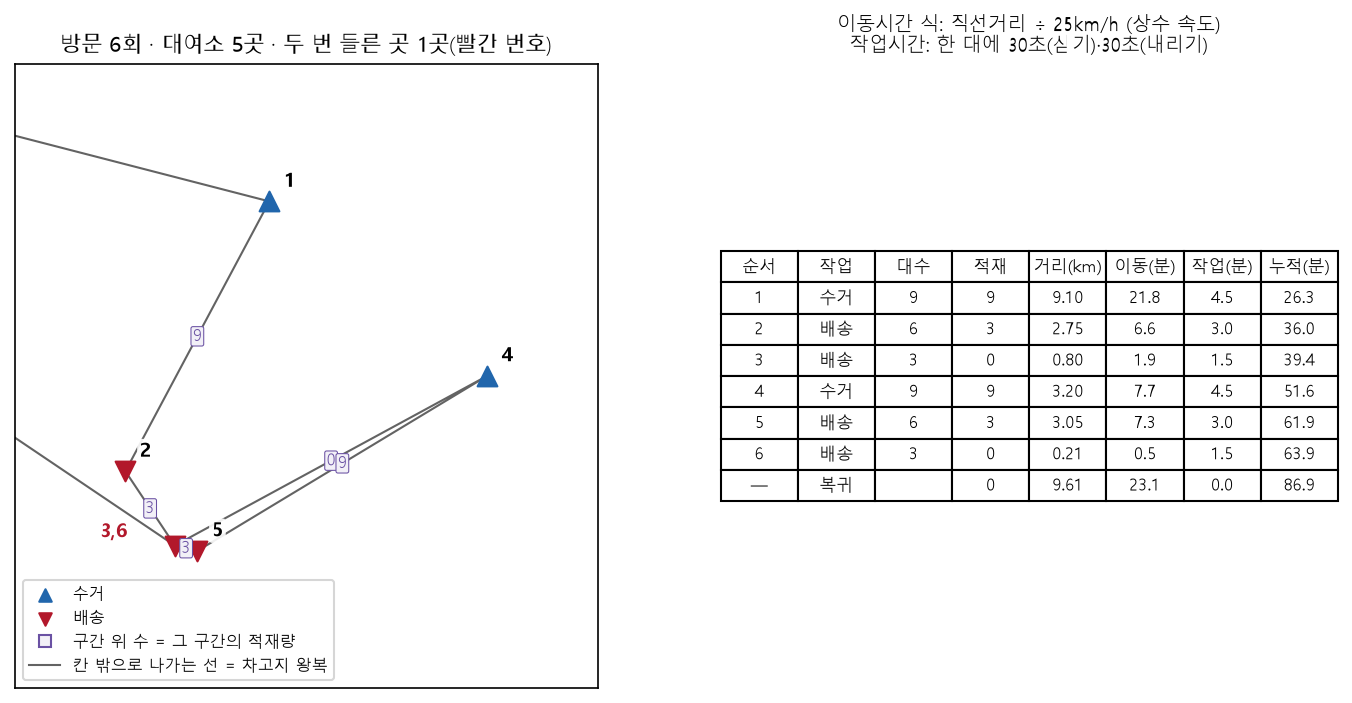
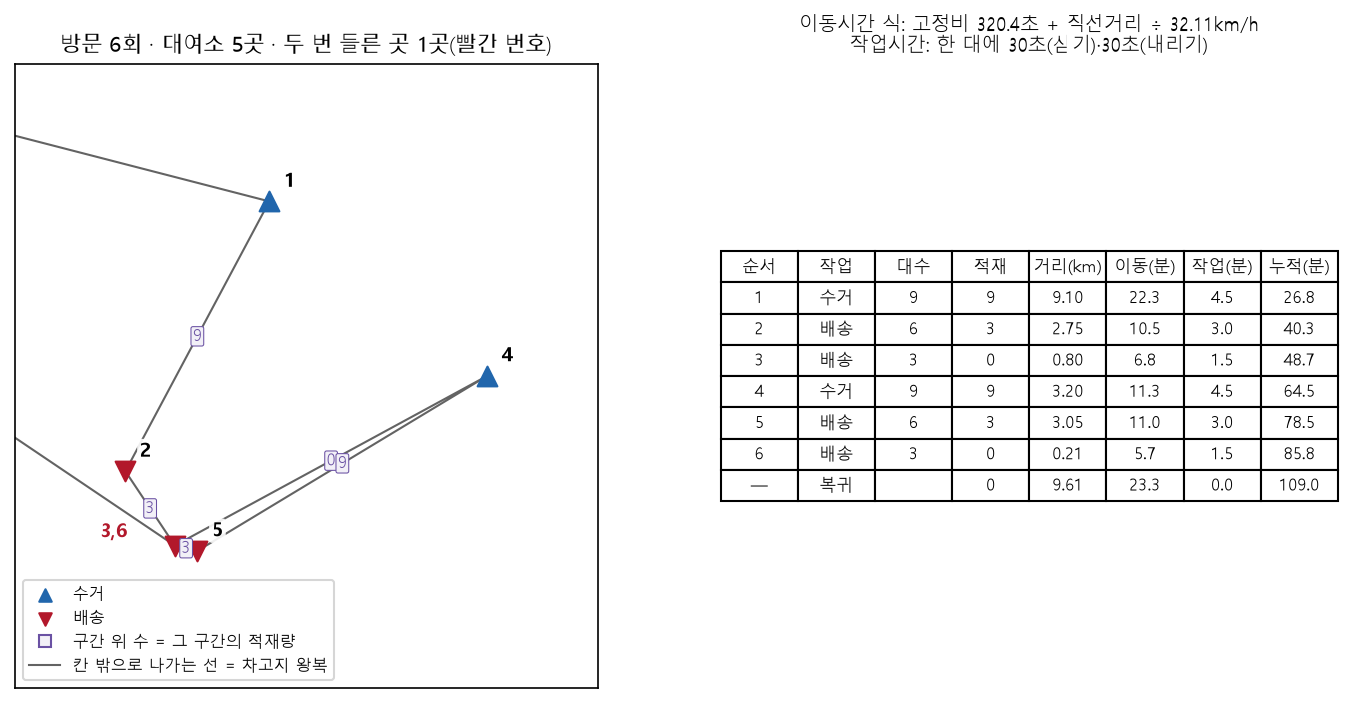
260920 4단계 재작성 ③ 원고를 새 값으로 고친다 - 표시 25곳 중 12곳은 값이 그대로라 지우고, 시간 수치는 켠 채 값으로 바꾼다 (1.26.252)
- 값이 그대로라 표시만 지운 12곳: 13장 이동거리 어림 · 25장 결원 시험 · 18·22장 z 격자(결품 기준이라 그대로)
- 3.5.1 군집 수 "12~16" → 식 14~17 · 조정 뒤 13~16(정본·25년 11월 평일·씨앗 42). K 추정이 c_tr 상수를 써서 식 (3.12)를 거치지 않는다는 것과, 그래서 같은 K인데 초과만 15→90건이 되는 것을 새 문단으로 적었다(5-G장)
- 4.5 회차당 차량 13~16대 · 3.4 상한 100의 초과를 "12대 중 11대"에서 "12.0대 중 11.6대"로(조건 추가)
- 7.4: 채택 계수로 재면 10~15시 포화가 다시 유의하지 않다(p=0.649) · 크기 1/64~1/4(33장)
- 7.5: 쪼개기는 25.7~50.3%를 못 옮기고 초과가 8군집 남는다(26장) · 연쇄는 42→21회·−25.6%, 예산을 지키는 연쇄는 0건. <표 7-2>에서 배율 1.24 추정 행을 없애고 계산값 한 행으로 합쳤다
- [그림 3-4]를 채택 계수로 다시 그리고 캡션을 고쳤다. 새로 잰 셋(연쇄 3개씩·26년 3월 연쇄·상한 100)은 같은 조건으로 직접 쟀다
- 남은 표시 13곳은 <표 3-3>(OR-Tools 갭)과 게이트 B 하나다

diff --git a/docs/연구/논문/7장_고찰.md b/docs/연구/논문/7장_고찰.md
@@ -164,7 +164,7 @@ $\gamma \ge 1000$에서는 거리 항이 균형 항을 압도하여 채택되는
 수를 바꾸어 전체 파이프라인을 돌렸는데, 결과가 나빠졌을 때 어림이 부정확해서인지 군집 수를 정하는
 방식이 잘못되어서인지 구분할 수 없었다. 세 번째 시도에서 순서를 바꾸어 어림값과 실제 이동거리를
 직접 대조하였고, 세 어림(면적 기반 근사, 최근접 이웃 순회, 최소 신장 트리)이 모두 현행보다 오차가
-크다는 것이 드러났다<!--A:EXP 13-->. 원인은 어림의 정밀도가 아니라 어림이 재는 대상이 실제 경로와
+크다는 것이 드러났다. 원인은 어림의 정밀도가 아니라 어림이 재는 대상이 실제 경로와
 다르다는 데 있었다. 순회 어림은 각 지점을 한 번씩 방문하는 최단 경로를 재지만, 실제 경로는 적재
 용량 때문에 같은 구역을 되돌아 다닌다.
 
@@ -182,8 +182,9 @@ $\gamma \ge 1000$에서는 거리 항이 균형 항을 압도하여 채택되는
 움직이면 그 비교는 무효이다. 아무것도 하지 않은 상태의 값이 파라미터에 따라 달라질 수는 없기
 때문이다. 이 진단은 제5장에서 그림으로 보인다.
 
-"시간 예산을 넘는 군집은 쪼개면 된다." 쪼개는 순간 일을 버렸다. 좌표로 군집을 나누면 예산은
-지켜지지만 수거와 배송의 짝이 깨져 자전거의 4.5~22.1%를 옮기지 못하였다<!--A:EXP 26-->. 더 나쁜
+"시간 예산을 넘는 군집은 쪼개면 된다." 쪼개는 순간 일을 버렸다. 좌표로 군집을 나누면 수거와 배송의
+짝이 깨져 자전거의 25.7~50.3%(세 회차 합계 35.7%)를 옮기지 못하였고, 그러고도 예산을 넘는 군집이
+22개에서 8개로 줄었을 뿐 사라지지 않았다. 더 나쁜
 것은 이 결함이 검사를 통과하였다는 점이다. 수거한 양만 세면 총합이 원래와 같아 이상이 없어
 보였고, 배송한 양까지 함께 세고서야 싣고서 내릴 곳이 없어 그대로 싣고 돌아온 차량이 드러났다.
 집행량은 수거한 양과 배송한 양 가운데 작은 쪽으로 세어야 한다.
@@ -191,24 +192,26 @@ $\gamma \ge 1000$에서는 거리 항이 균형 항을 압도하여 채택되는
 "시간 예산 120분이 여러 군집을 이어 도는 구조를 막는다." 전제부터 틀렸다. 본 연구는 오랫동안
 차량 한 대가 여러 군집을 이어 도는 구조를 예산 때문에 불가능하다고 적었다. 그러나 120분은 본
 연구가 세운 목표이지 운영기관의 제약이 아니었다(대전교통공사 타슈 관제센터 담당자, 유선 문의, 2025년 9월 6일). 제약이 아니라
-목표로 보고 다시 재니 불가능이 아니라 맞바꿈이었다. 두 군집씩 묶으면 필요한 차량 운행이 48회에서
-25회로, 이동거리가 23.2% 줄고, 대신 가장 긴 운행이 2.6시간에서 3.5시간으로 늘었다(<표 7-2>)<!--A:EXP 8·27-->.
-할 수 없다는 것과 이만큼을 치르면 할 수 있다는 것은 전혀 다른 결론이다.
+목표로 보고 다시 재니 불가능이 아니라 맞바꿈이었다. 두 군집씩 묶으면 필요한 차량 운행이 42회에서
+21회로, 이동거리가 25.6% 줄고, 대신 가장 긴 운행이 2.5시간에서 4.0시간으로 늘었다(<표 7-2>).
+할 수 없다는 것과 이만큼을 치르면 할 수 있다는 것은 전혀 다른 결론이다. 다만 예산을 지키면서 이을 수
+있는 짝은 한 건도 없었다. 예산을 지키라고 하면 연쇄는 현행과 소수점까지 같은 계획이 된다.
 
-<표 7-2> 여러 군집을 이어 도는 구조의 맞바꿈 (2025년 11월 평일, 세 회차 합계)<!--A:EXP 8·27-->
+<표 7-2> 여러 군집을 이어 도는 구조의 맞바꿈 (2025년 11월 평일, 세 회차 합계)
 
 | 구분 | 현행(차량 1대 = 군집 1개) | 2개씩 이어 돌기 | 3개씩 이어 돌기 |
 | --- | --- | --- | --- |
-| 필요한 차량 운행 수 | 48회 | 25회 | 17회 |
-| 총 이동거리 | 1,458.7km | 1,120.8km (−23.2%) | 953.6km (−34.6%) |
-| 차고지 왕복 비중 | 65.1% | 43.2% | 31.3% |
-| 가장 긴 운행 (계산값) | 122.8~127.8분 | 160.5~171.4분 | 204.1~249.0분 |
-| 가장 긴 운행 (실측 배율 반영 추정) | 약 159분 (2.6시간) | 약 213분 (3.5시간) | 약 309분 (5.2시간) |
+| 필요한 차량 운행 수 | 42회 | 21회 | 15회 |
+| 총 이동거리 | 1,227.9km | 913.5km (−25.6%) | 824.8km (−32.8%) |
+| 차고지 왕복 비중 | 66.5% | 43.8% | 34.4% |
+| 가장 긴 운행 | 136.6~151.9분 | 200.7~241.0분 | 275.9~311.7분 |
+| 시간 예산을 넘는 차량 | 12대 | 21대 | 14대 |
 
-주: 계산값은 직선거리를 시속 25km로 나눈 이동시간에 작업시간을 더한 것으로, 세 회차 각각의 최댓값 범위이다. 추정값은
-계산값의 최댓값에 실효 배율 약 1.24를 곱하였다. 도로 이동시간이 직선거리 기준의 1.32배라는 실측과 이동이 소요시간의
-70~80%를 차지한다는 점에서 얻은 배율이다. 군집을 묶는 규칙은 가까운 군집끼리 잇는 단순 규칙이므로 이득은 하한이다.
-2026년 3월에서도 두 군집씩 묶으면 차량 운행이 46회에서 23회로, 이동거리가 26.1% 줄었다.
+주: 이동시간은 식 (3.12)의 계수로 계산한 값이고, 여기에 작업시간을 더한 것이 운행 시간이다. 가장 긴 운행은 세 회차
+각각의 최댓값 범위이다. 재고 스냅샷은 2026년 8월 11일, 난수 씨앗은 42이다. 군집을 묶는 규칙은 가까운 군집끼리 잇는
+단순 규칙이므로 이득은 하한이다. 2026년 3월 통계에서도 두 군집씩 묶으면 차량 운행이 45회에서 23회로, 이동거리가
+26.8% 줄었다. 예산 120분을 지키라는 조건을 걸면 2025년 11월에는 이을 수 있는 짝이 하나도 없어 현행과 같아지고,
+2026년 3월에는 한 짝만 이어져 45회가 44회가 된다.
 
 "순수요 기준 충족률은 총 대여 기준보다 낙관적일 것이다." 분모를 바꾸자 순서가 뒤집혔다.
 순수요를 분모로 쓰던 충족률을 총 대여 건수로 다시 재니 분모가 2.3~5.4배가 되었다. 순수요 기준이
@@ -219,10 +222,13 @@ $\gamma \ge 1000$에서는 거리 항이 균형 항을 압도하여 채택되는
 
 "유의하지 않으므로 차이가 없다." 표본이 작았기 때문이었다. 5개월 반복 실험($n=15$)에서 제안
 방법과 그리디 배분의 포화 시간 차이는 유의하지 않았고($p=0.1876$), 한때 이를 두 방법의 포화가
-통계적으로 구분되지 않는다고 적었다. 12개월($n=36$)로 늘리자 세 시간대 모두 유의해졌다<!--A:EXP 15·33-->.
-유의하지 않았던 것은 차이가 없어서가 아니라 $n=15$로는 가를 수 없어서였다. 다만 뒤집힌 것은
-유의성이지 주장이 아니다. 차이의 크기가 50초~2.6분으로 결품 이득의 1/5~1/2이고, 한 시간대에서는
-부호마저 반대였다<!--A:EXP 15·33-->. 그래서 결론을 동등성 주장에서 효과 크기 주장으로 고쳐 썼다.
+통계적으로 구분되지 않는다고 적었다. 12개월($n=36$)로 늘리자 세 시간대 모두 유의해졌다.
+유의하지 않았던 것은 차이가 없어서가 아니라 $n=15$로는 가를 수 없어서였다. 그런데 같은 자료를 채택한
+이동시간 식으로 다시 재면 10~15시는 다시 유의하지 않았다($p=0.649$). 나머지 두 시간대는 유의한 채로
+남는다. 표본을 늘려 갈린 것이 재는 자를 바꾸자 한 칸에서 도로 안 갈린 것이다. 다만 뒤집힌 것은
+유의성이지 주장이 아니다. 포화 시간의 차이는 0.2~4.3분으로 같은 짝의 결품 이득(11.0~16.6분)의
+1/64~1/4이고, 옛 계수에서는 한 시간대의 부호가 반대였다. 그래서 결론을 동등성 주장에서 효과 크기
+주장으로 고쳐 썼다.
 앞의 사례들이 측정 방식이 틀린 경우였다면, 이 사례는 통계적 판단의 해석이 틀린 경우이다. 귀무가설을
 기각하지 못한 것을 같음의 근거로 쓰면 표본이 늘어나는 순간 자기 주장이 무너진다.
 

diff --git a/docs/연구/논문/4장_시스템설계.md b/docs/연구/논문/4장_시스템설계.md
@@ -118,7 +118,8 @@ API로 받은 실도로 경로를 그리며, 계획 계산 자체에는 식 (3.1
 운영기관에 문의한 결과 재배치 차량은 21대이며 한 번에 모두 투입하지 않고 조를 나누어 운용한다
 (대전교통공사 타슈 관제센터 담당자, 유선 문의, 2025년 9월 6일). 시스템은 이 운용 방식 위에 본 연구의 회차 구조를 얹기 위해
 차량 배정 계층을 따로 둔다. 회차당 투입 대수는 고정값이 아니라 식 (3.7)의 추정 작업량이 정하며,
-실데이터에서 12~16대였다<!--A:EXP 5-G-->. 따라서 보유 21대 안에서 교대 여유가 있다.
+정본 스냅샷의 세 회차에서 13~16대였다(식의 추정은 14~17대이고, 수급 균형 조정을 거쳐 13~16대가 되었다.
+2025년 11월 평일 통계, 난수 씨앗 42). 따라서 보유 21대 안에서 교대 여유가 있다.
 
 배정은 두 단계 규칙으로 이루어진다. 먼저 누적 작업시간이 적은 차량부터 그 회차에 필요한
 대수만큼 뽑고, 뽑힌 차량 가운데 누적이 적은 차량일수록 작업량이 무거운 군집을 맡긴다. 별도의
@@ -127,9 +128,9 @@ API로 받은 실도로 경로를 그리며, 계획 계산 자체에는 식 (3.1
 
 이 규칙을 결원 상황에서 시험하였다. 결원을 0, 1, 3, 5, 6, 7, 9대로 늘려 12회차를 연속 실행한
 결과, 가용 차량 16대(결원 5대)까지는 모든 회차의 배정이 성립하였고, 15대부터는 필요 대수가
-16인 회차에서 배정이 실패하였다<!--A:EXP 25-->. 다만 결원이 끝난 뒤 차량별 누적 작업시간의
+16인 회차에서 배정이 실패하였다. 다만 결원이 끝난 뒤 차량별 누적 작업시간의
 표준편차가 오히려 벌어져(결원 5대 기준 12회차 끝에 54분), 결원 중의 최댓값 아래로 돌아온 것은 복구 뒤
-7회차째였다<!--A:EXP 25-->([그림 4-5]). 12회차 시험에서는 복구 뒤가 6회차뿐이어서 이 회복이 관측되지 않았고,
+7회차째였다([그림 4-5]). 12회차 시험에서는 복구 뒤가 6회차뿐이어서 이 회복이 관측되지 않았고,
 회차를 늘려 다시 재어 확인하였다. 결원 동안 누적이 멈춰 있던 차량이 복귀 직후 연이어 배정되기 때문이며,
 단기 형평성은 보장하지 못한다.
 
@@ -137,7 +138,7 @@ API로 받은 실도로 경로를 그리며, 계획 계산 자체에는 식 (3.1
 
 [그림 4-5] 결원 규모별 차량 누적 작업시간 편차의 추이(왼쪽)와 배정이 실패한 회차 수(오른쪽). 1~6회차에 결원이 들고
 7회차에 복구된다. 부하는 군집당 60~100분의 합성 값이고, 회차마다 필요한 대수는 12, 14, 16대를 돌며, 값은 난수 씨앗
-다섯 개의 평균이다. 왼쪽은 복구 뒤의 회복을 보이려고 12회차 시험을 14회차까지 늘려 그렸다.<!--A:EXP 25-->
+다섯 개의 평균이다. 왼쪽은 복구 뒤의 회복을 보이려고 12회차 시험을 14회차까지 늘려 그렸다.
 
 차량 대수 21은 문서화된 제원이 아니라 담당자의 구두 답변이며, 공개 자료로 교차 확인되지
 않는다(제8장).

diff --git a/docs/연구/논문/5장_파라미터결정.md b/docs/연구/논문/5장_파라미터결정.md
@@ -111,10 +111,10 @@ $z$를 2.10으로 더 올리면 처리 상한의 합은 2,076대(+33.4%)로, 1.9
 ![그림 5-1](../초안/그림/그림5-1_z_모집단.png)
 
 [그림 5-1] 같은 안전계수 격자를 세 모집단으로 잰 재배치 후 결품 시간 (2025년 11월 평일, 씨앗 3개
-평균). 빨간 원은 각 모집단의 최저점이고 점선은 채택값 1.99이다.<!--A:EXP 18 그림 다시 그리기-->
+평균). 빨간 원은 각 모집단의 최저점이고 점선은 채택값 1.99이다.
 
 $z=1.65$의 작업 대상 집합을 모집단으로 삼으면 1.65가 가장 좋았고(세 시간대 평균 0.5675시간), $z=2.33$의
-집합을 모집단으로 삼으면 2.33이 가장 좋았다(0.4552시간)<!--A:EXP 18-->. 세 시간대 모두 같은 양상이었다. 각
+집합을 모집단으로 삼으면 2.33이 가장 좋았다(0.4552시간). 세 시간대 모두 같은 양상이었다. 각
 모집단이 자기를 정의한 $z$를 뽑은 것이다. 어떤 $z$가 담으려고 고른 대여소들이 분모가 되면, 그
 집합을 겨냥해 계획하지 않은 다른 $z$가 불리해진다.
 
@@ -122,13 +122,13 @@ $z=1.65$의 작업 대상 집합을 모집단으로 삼으면 1.65가 가장 좋
 시간이 $z$에 따라 전혀 움직이지 않아, 비교의 기준이 흔들리지 않았음을 확인할 수 있다(1.5절 원칙
 3의 판별법). 그렇게 재면 $z$를 1.65에서 2.33까지 바꾸어도 결품 시간의 폭은 5.2초로, 재배치 전
 결품 시간 1.9338시간의 0.075%였다. 이 폭은 씨앗에 따른 흔들림과 비슷한 크기였고(신호 대 잡음비
-1.12~2.43), 시간대마다 가장 좋은 $z$가 달랐다<!--A:EXP 18-->.
+1.12~2.43), 시간대마다 가장 좋은 $z$가 달랐다.
 
 격자를 왼쪽으로 넓혀 0.25부터 2.81까지 재자 모습이 달라졌다. $z=0.25$의 결품 시간은 1.9058시간으로
-1.99의 1.8519시간보다 194초 길었고, 격자 전체의 폭은 202초, 신호 대 잡음비는 10.03이었다<!--A:EXP 22-->.
+1.99의 1.8519시간보다 194초 길었고, 격자 전체의 폭은 202초, 신호 대 잡음비는 10.03이었다.
 $z$를 낮추면 결품이 뚜렷하게 나빠진다. 평평한 것은 1.65~2.81 구간뿐이었다. 시간대마다 최저점은
 달랐으나(05~10시 2.81, 10~15시 1.65, 15~20시 1.96), 1.99 대신 각 시간대의 최저점을 쓸 때 얻는
-이득은 28초, 9초, 19초로 셋을 합쳐도 1분이 되지 않았다<!--A:EXP 22-->. 시간대별로 $z$를 따로 두는
+이득은 28초, 9초, 19초로 셋을 합쳐도 1분이 되지 않았다. 시간대별로 $z$를 따로 두는
 구조를 만들 만한 크기가 아니다.
 
 따라서 $z$는 1.99로 유지한다. 결품 시간은 1.65보다 낮은 값을 배제하는 근거가 되지만, 1.65~2.81

diff --git a/docs/연구/논문/2장_관련연구.md b/docs/연구/논문/2장_관련연구.md
@@ -198,7 +198,7 @@ OR-Tools에 준 탐색 시간에 따라 달라진다. 300초를 주면 평균 5.
 4. 대조군과 결품 시간으로 비교하였다. 계획 전후의 자기 비교가 아니라 재배치를 하지
    않는 경우, 그리디 배분, 지리적 군집과 나란히 놓고, 12개월에 난수 씨앗 3개를 곱한 반복
    실험에서 시간대별로 유의성을 검정하였다(Wilcoxon 부호순위검정, 시간대별 $n=36$,
-   $p<10^{-4}$)<!--A:EXP 15·33-->.
+   $p<10^{-6}$).
 
 반대로 다음은 주장하지 않는다. 군집, 수량, 경로의 3단계 구조는 지창훈 외(2007) 이후 쓰여
 온 구조이므로 새로운 구조가 아니다. 결품을 지표로 삼는 발상도 처음이 아니다. 김유신(2023)은

diff --git a/docs/연구/논문/8장_한계와_향후과제.md b/docs/연구/논문/8장_한계와_향후과제.md
@@ -124,7 +124,7 @@ $\gamma$도 이 도시의 수요에서 정한 값이며, 다른 도시에서 같
 없는 체계에 대해서는 8.6절에서 예비 검토 결과를 제시한다.
 
 차량 결원 뒤의 형평성은 곧바로 회복되지 않는다. 4.5절의 결원 시험에서 배정은 결원 5대까지
-성립하였으나<!--A:EXP 25-->, 결원이 끝난 뒤 차량별 누적 작업시간의 차이가 오히려 벌어졌다가 몇 회차에 걸쳐
+성립하였으나, 결원이 끝난 뒤 차량별 누적 작업시간의 차이가 오히려 벌어졌다가 몇 회차에 걸쳐
 돌아왔다. 누적이 적은 차량을 먼저 뽑는 규칙에서 나오는 설계된 동작이지만, 단기 형평성을 보장하지는
 못한다.
 
